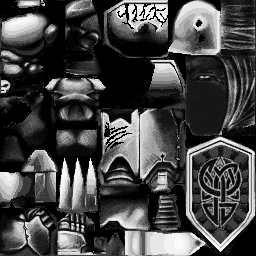
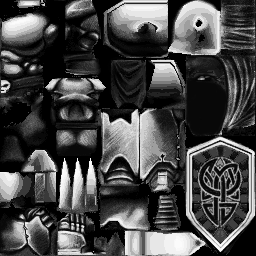
added new assets (I should stop pushing all of this stuff on GH). Normals are just using the model's vertex coordinates as (normalized) normal vectors. Model appears smoother that way.

diff --git a/Engine2/md2Model.cpp b/Engine2/md2Model.cpp
@@ -60,9 +60,12 @@ void md2Model::reorganize() {
 			// generate normal for this triangle
 			glm::vec3 x = model.pointList[framenumber * model.numPoints + model.triIndex[j].meshIndex[1]] - model.pointList[framenumber * model.numPoints + model.triIndex[j].meshIndex[0]];
 			glm::vec3 y = model.pointList[framenumber * model.numPoints + model.triIndex[j].meshIndex[2]] - model.pointList[framenumber * model.numPoints + model.triIndex[j].meshIndex[0]];
-			normal_frame.push_back(glm::normalize(glm::cross(x, y)));
-			normal_frame.push_back(glm::normalize(glm::cross(x, y)));
-			normal_frame.push_back(glm::normalize(glm::cross(x, y)));
+			//normal_frame.push_back(glm::normalize(glm::cross(x, y)));
+			//normal_frame.push_back(glm::normalize(glm::cross(x, y)));
+			//normal_frame.push_back(glm::normalize(glm::cross(x, y)));
+			normal_frame.push_back(glm::normalize(model.pointList[framenumber * model.numPoints + model.triIndex[j].meshIndex[0]]));
+			normal_frame.push_back(glm::normalize(model.pointList[framenumber * model.numPoints + model.triIndex[j].meshIndex[1]]));
+			normal_frame.push_back(glm::normalize(model.pointList[framenumber * model.numPoints + model.triIndex[j].meshIndex[2]]));
 
 			if (!textures_reordered) { // only needs to be done once, as every frame uses the same
 				st_ro.push_back(model.st[model.triIndex[j].stIndex[0]]); // coordinate tuple for 1st point of triangle

diff --git a/Engine2/main.cpp b/Engine2/main.cpp
@@ -25,7 +25,7 @@ Course: Game Programming, COMP 4451, HKUST, Fall Term 2016
 
 #define EPSILON 0.5f;
 
-glm::vec3 camPos = glm::vec3(0.0f, 8.0f, 10.0f);
+glm::vec3 camPos = glm::vec3(0.0f, 3.0f, 12.0f);
 glm::vec3 cameraFront = glm::vec3(0.0f, 0.0f, 0.0f);
 glm::vec3 camUp = glm::vec3(0.0f, 1.0f, 0.0f);
 
@@ -200,8 +200,8 @@ int main(int argc, char** argv) {
 	AnimationShader md2Shader("./opengl_shaders/md2_animation_shader", shader_variables_md2);
 
 	Texture faerie_texture("./textures/Faerie.png");
-	Texture pknight_texture("./models/pknight/knight.png");
-	Texture pknight_texture_specular("./models/pknight/knight_spec_v03.png");
+	Texture pknight_texture("./models/pknight/knight_diffuse_cheetos_1024.png");
+	Texture pknight_texture_specular("./models/pknight/knight_spec_cheetos_1024.png");
 	Texture bauul_texture("./textures/bauul.png");
 	Texture skelett_texture("./models/skelett/skelett.png");
 	Texture pknight_weapon_texture("./models/pknight/w_railgun.pcx");
